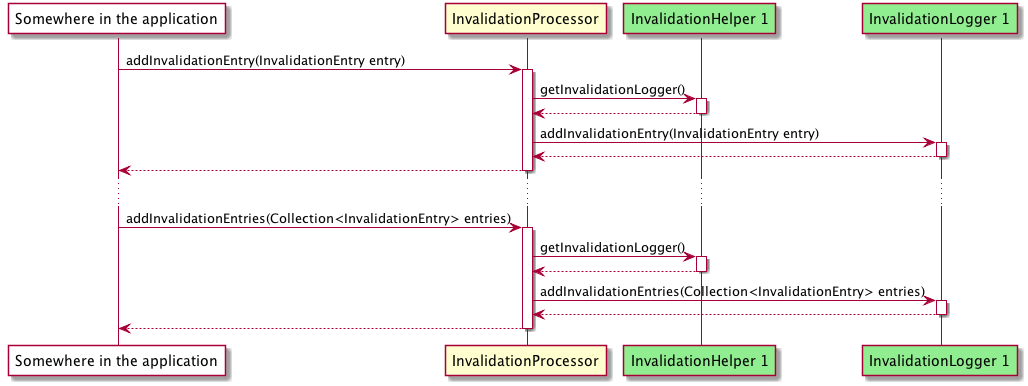
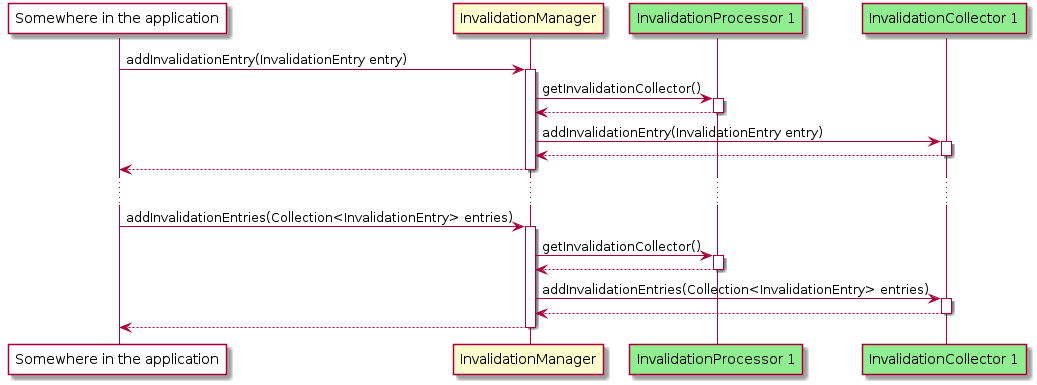
Issue #20 - Update the sequence diagram * Updated the UML diagrams * Updated the README file

diff --git a/README.md b/README.md
@@ -27,17 +27,17 @@ Cache invalidation happens in two steps:
 * identifying what the changes are,
 * performing the invalidation itself.
 
-For both steps, there is a single entry point: the invalidation processor. It is in charge of the collection and invalidation itself. All calls from other parts of the application should be done to the processor to keep a consistent way of invalidating.
+For both steps, there is a single entry point: the invalidation manager. It is in charge of the collection and invalidation itself. All calls from other parts of the application should be done to the manager to keep a consistent way of invalidating.
 
 ### Identifying and collecting changes
 
-There are many ways to identify changes, such a service to collect changes is called an invalidation logger.
+There are many ways to identify changes, such a service to collect changes is called an invalidation collector.
 
 Two possibilities regarding changes:
-* Every time an element is modified, the corresponding invalidation entry is created and passed to the logger.
+* Every time an element is modified, the corresponding invalidation entry is created and passed to the collector.
 * Elements have a last modification date that allows to dynamically fetch the changes from the data source. This could also be read from a JMS queue for example.
 
-The invalidation processor has two methods to collect entries:
+The invalidation manager has two methods to collect entries:
 * void addInvalidationEntries(Collection<InvalidationEntry> entries)
 * void addInvalidationEntry(InvalidationEntry entry)
 
@@ -45,20 +45,20 @@ The invalidation processor has two methods to collect entries:
 
 ### Triggering the invalidation
 
-The invalidation processor is the only element which it is necessary to interact with from other parts of the application.
+The invalidation manager is the only element which it is necessary to interact with from other parts of the application.
 It has a single method to trigger the invalidation: void processEntries()
 
 ![Processing invalidation entries](https://github.com/ppodgorsek/juncacher/blob/master/src/doc/uml/generated/process_invalidation_entries_sequence.png)
 
-The helpers/loggers of the same colour go together.
+The processors/collectors having the same colour go together.
 
 The invalidation of an entry is a bit more complex than just a single method call. For example, according to the type of entry:
 * Spring CacheManager: the cache regions will probably be different,
 * Varnish: the BAN/PURGE/GET URLs will probably be different too. 
 
-This problem is solved in helpers by using strategies that will indicate what to invalidate according to the type of entry.
+This problem is solved in processors by using strategies that will indicate what to invalidate according to the type of entry.
 
-![Invalidation helper strategies](https://github.com/ppodgorsek/juncacher/blob/master/src/doc/uml/generated/invalidation_helper_strategies_activity.png)
+![Invalidation processor strategies](https://github.com/ppodgorsek/juncacher/blob/master/src/doc/uml/generated/invalidation_processor_strategies_activity.png)
 
 ### Consuming changes
 
@@ -70,17 +70,17 @@ It is possible that an invalidation fails therefore we don’t want to remove el
 
 A common use case is to have several layers of cache that must be correctly kept up-to-date, for example a Spring Cache (usually ehcache) and an HTTP cache (possibly Varnish).
 
-A helper is linked to one type of cache (Spring, Varnish, etc) and will be in charge of performing the invalidation for this type of cache. Helpers can be chained to invalidate a full stack.
+A processor is linked to one type of cache (Spring, Varnish, etc) and will be in charge of performing the invalidation for this type of cache. Processors can be chained to invalidate a full stack.
 
-Each helper has its own associated logger in order to have finer control over the invalidation in case retries are necessary due to errors in one layer.
+Each processor has its own associated collector in order to have finer control over the invalidation in case retries are necessary due to errors in one layer.
 
-Helpers can be chained to evict each level of cache, starting by the lower level and going outwards.
+Processors can be chained to evict each level of cache, starting by the lower level and going outwards.
 
-![Chain of invalidation helpers](https://github.com/ppodgorsek/juncacher/blob/master/src/doc/uml/generated/invalidation_helper_chain_activity.png)
+![Chain of invalidation processors](https://github.com/ppodgorsek/juncacher/blob/master/src/doc/uml/generated/invalidation_processor_chain_activity.png)
 
 ## How to use this project
 
-All artefacts of this project are available on Maven’s central repository, which makes it easy to use in your project.
+All artefacts of this project are available on Maven’s central repository, which makes it easy to use in your projects.
 
 If you are using Maven, simply declare the following dependencies:
 * juncacher-core:  
